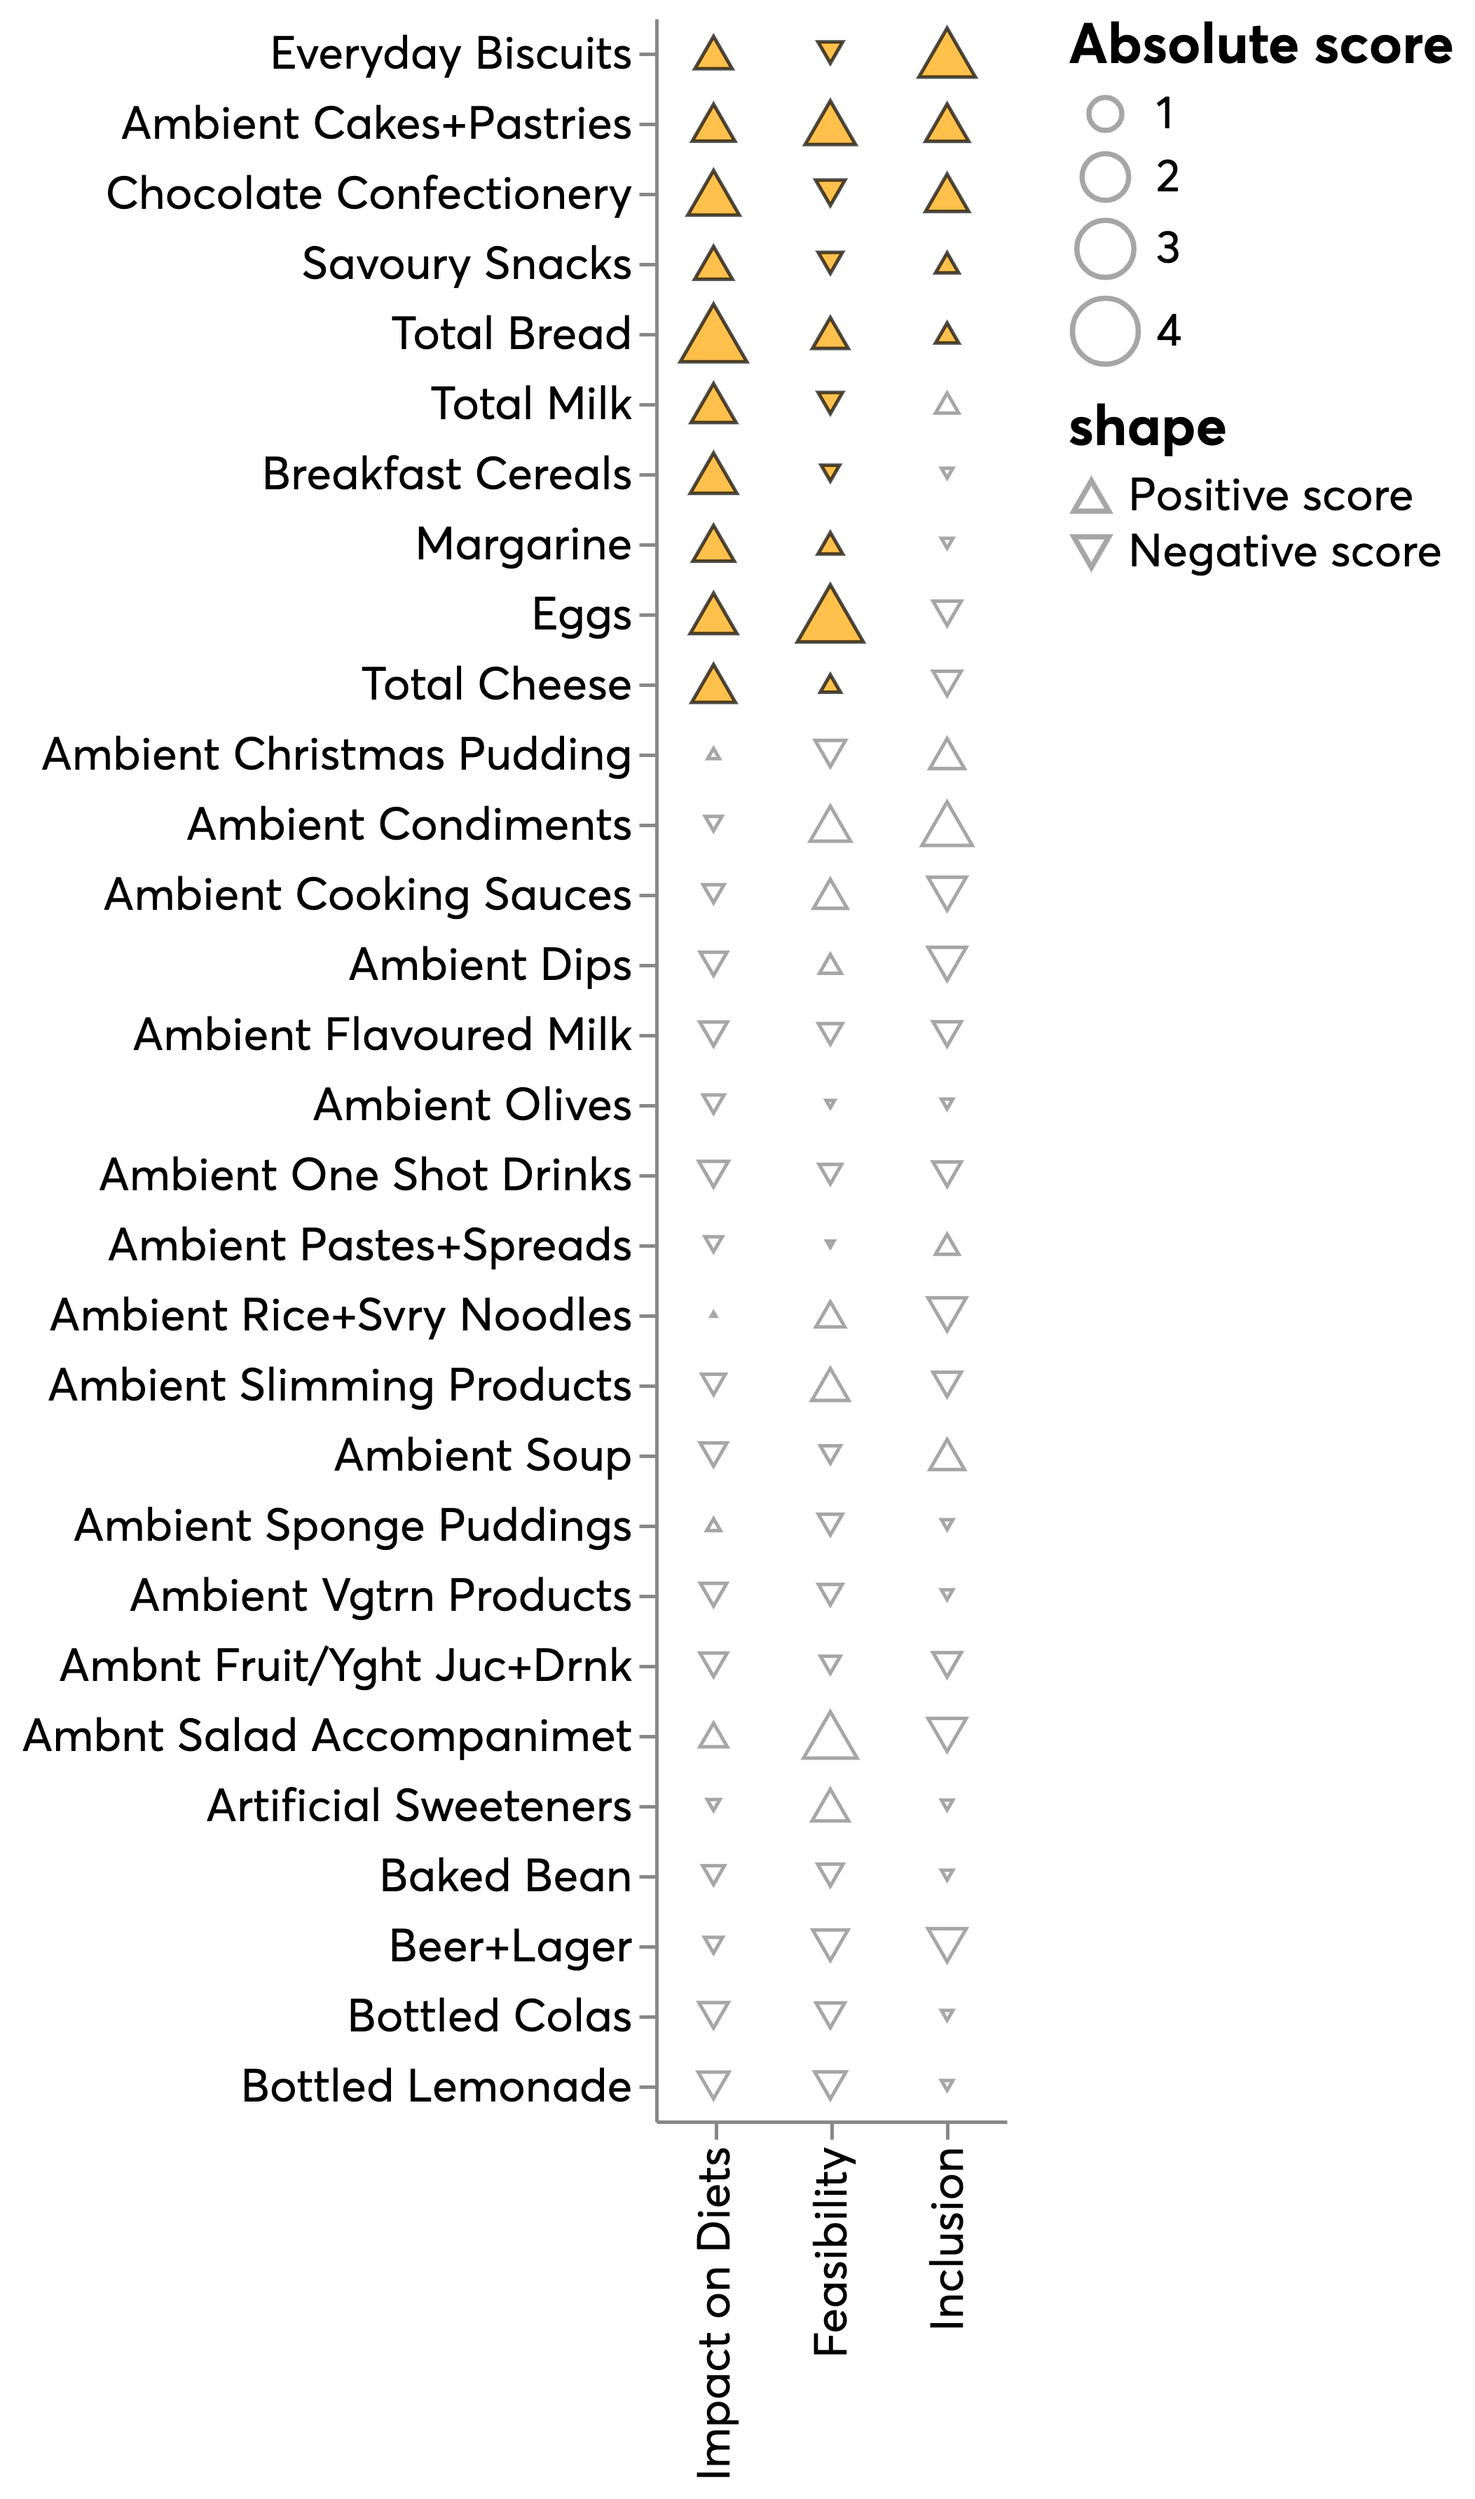
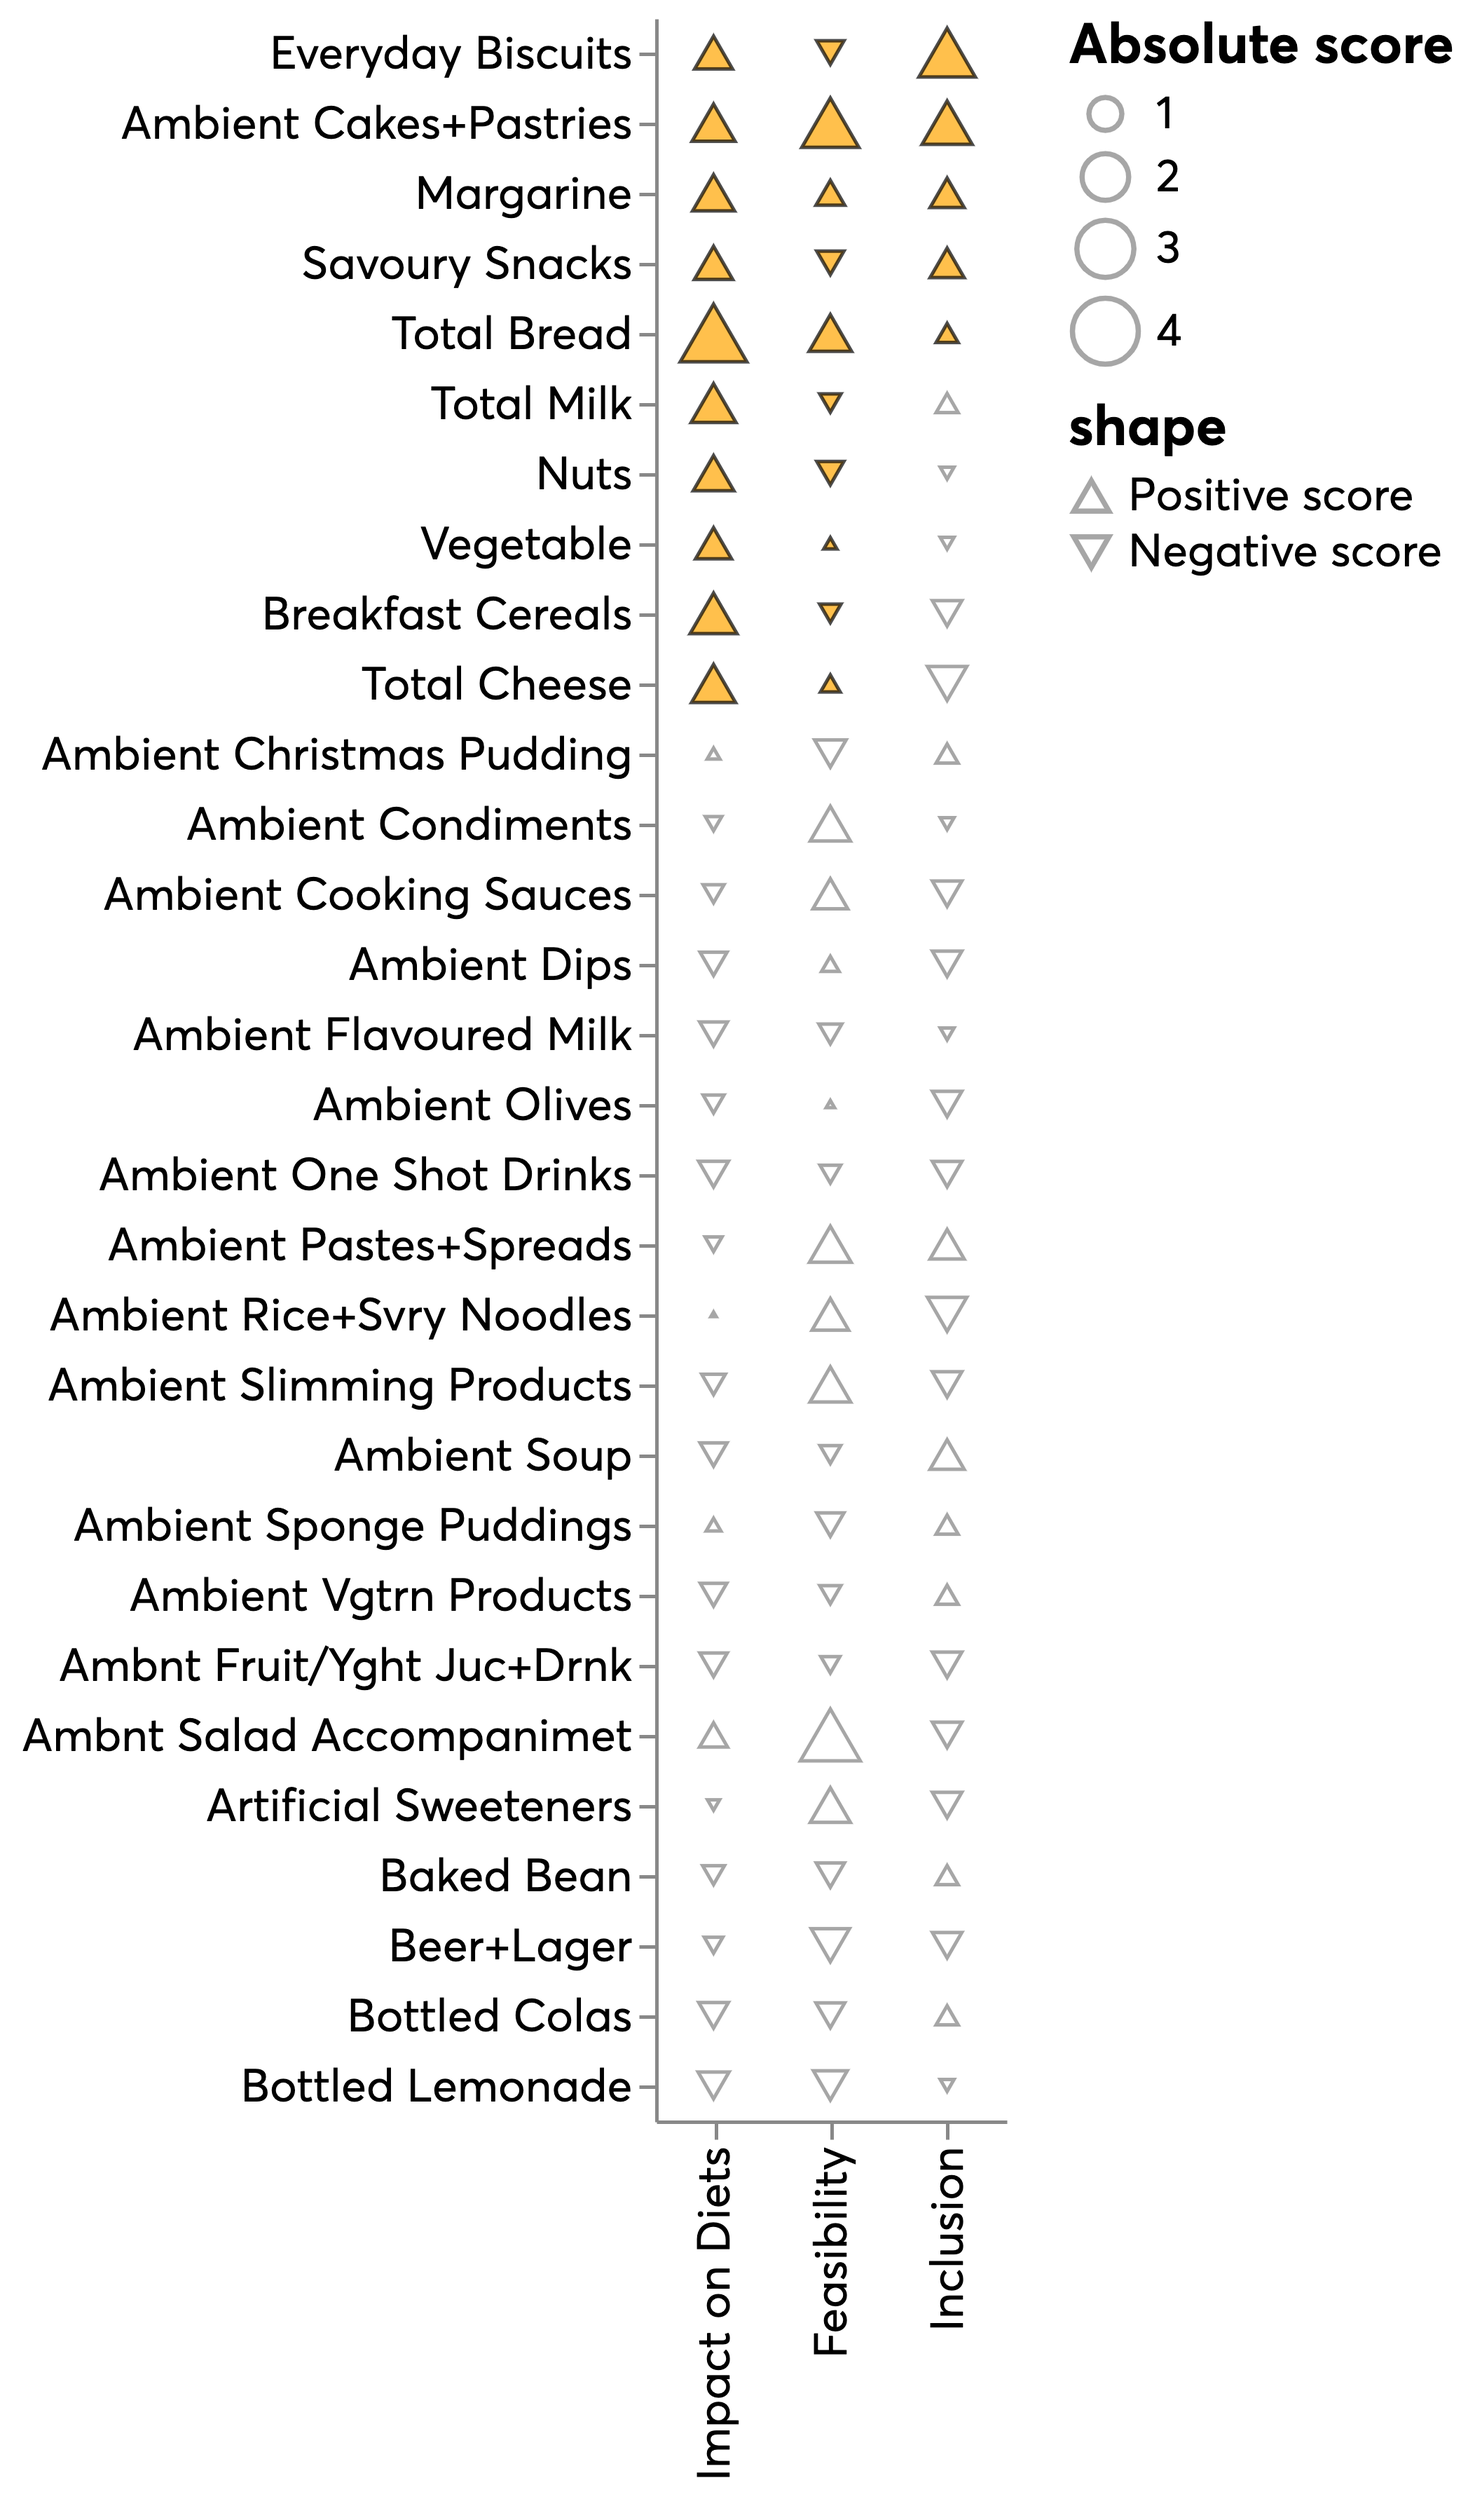
updating bubble chart (#115)
* updating bubble chart

* updating bubble chart to correct variable

* removing commented out code from script

* removing commented out code from script

diff --git a/ahl_food_reformulation/analysis/decision_table_analysis/make_table_analysis.py b/ahl_food_reformulation/analysis/decision_table_analysis/make_table_analysis.py
@@ -194,9 +194,9 @@ def make_indicator_bubblechart(
 
     heatmap = base.mark_point(stroke="black", filled=True, strokeWidth=0.5).encode(
         color=alt.Color(
-            var_names[2],
+            "z_score",
             title="Z-score",
-            scale=alt.Scale(scheme="redblue"),
+            scale=alt.Scale(scheme="redblue", domainMid=0),
             sort="descending",
         ),
         size=alt.Size("abs_value", title="Absolute score"),
@@ -645,7 +645,7 @@ if __name__ == "__main__":
 
     logging.info("bubblechart with averaged indicators")
     aggr_bubble_chart = pipe(
-        avg_table_plots.groupby(["category", broad_cat_str])["cross"]
+        avg_table_plots.groupby(["category", broad_cat_str])[["cross", "z_score"]]
         .sum()
         .reset_index(drop=False),
         partial(
